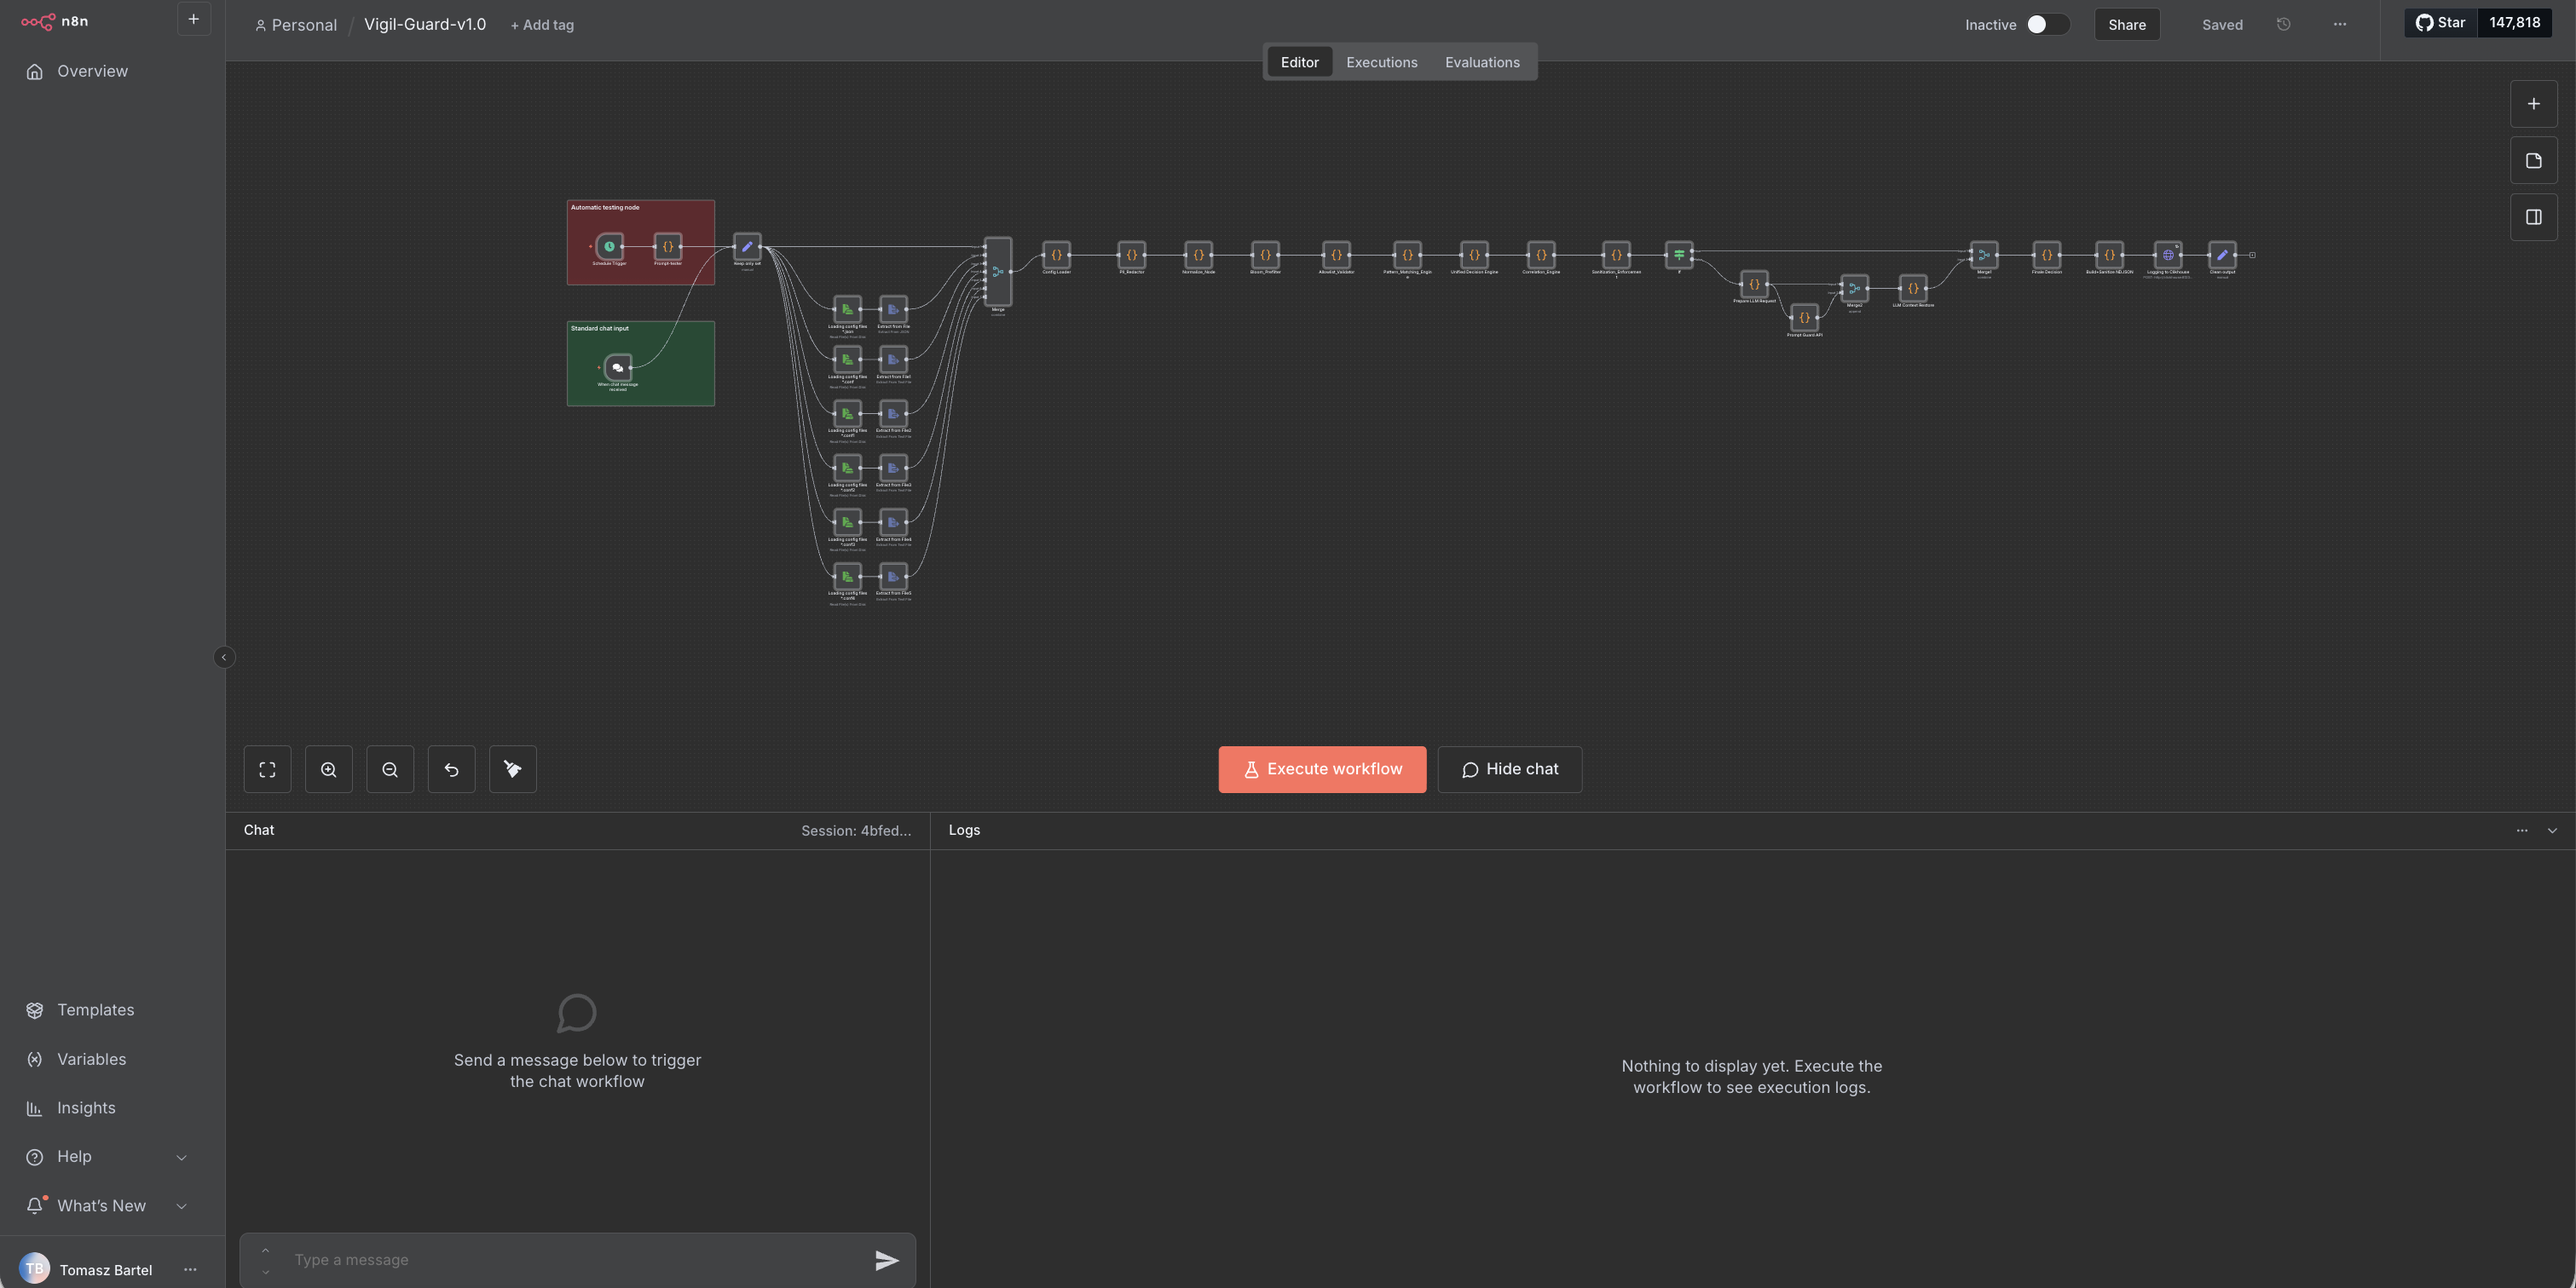
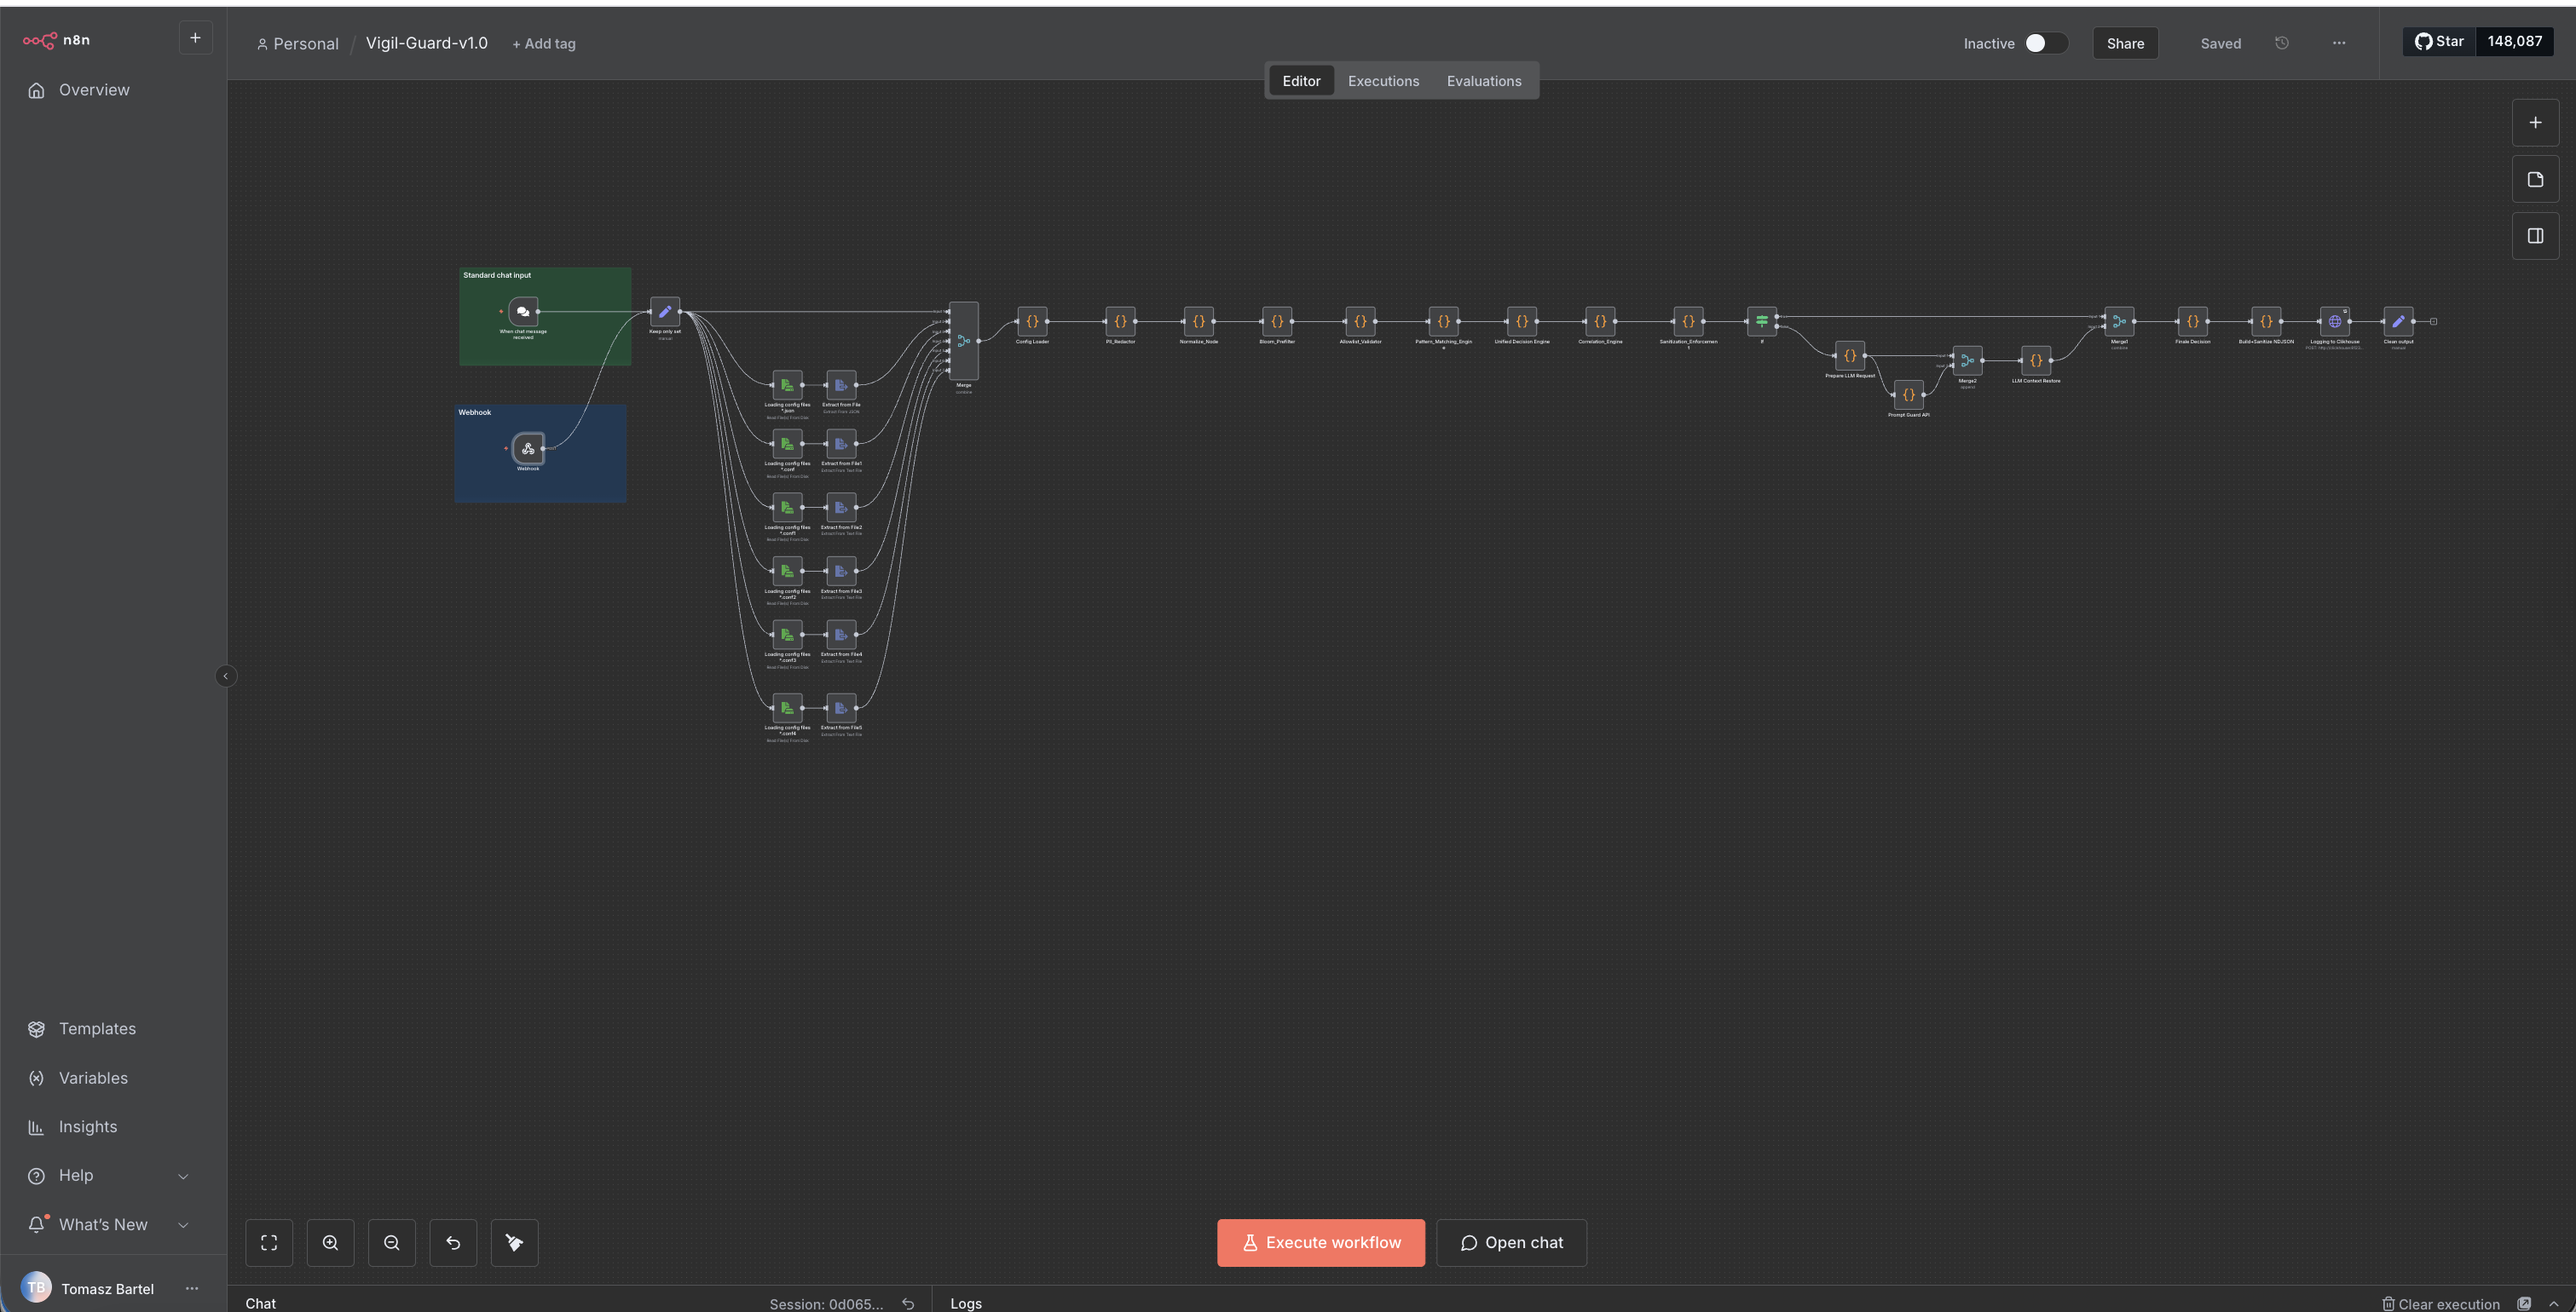
docs: Update documentation for test suite and workflow v1.0
Documentation updates:
- Add comprehensive testing section with 58+ tests
- Update workflow filename to Vigil-Guard-v1.0.json
- Add workflow integration methods (chat window + webhook API)
- Update project structure with test directories
- Refresh workflow pipeline screenshot with current architecture
- Update detection categories count (20+ → 24+)

Testing section highlights:
- 85% test pass rate (23/27 tests passing)
- E2E test suite with vitest and CI/CD integration
- 100 test fixtures (50 malicious + 50 benign prompts)
- Coverage: encoding, obfuscation, SQL injection, jailbreak detection

Workflow access methods:
- Chat window for interactive testing in n8n editor
- Webhook API for production integration
- Detailed examples in test documentation

Files updated:
- README.md: Added testing section, workflow integration guide
- QUICKSTART.md: Updated workflow filename references
- docs/pic/workflow-pipeline.png: Current 34-node pipeline diagram

diff --git a/README.md b/README.md
@@ -16,7 +16,7 @@ Vigil Guard is a comprehensive security platform designed to protect Large Langu
 
 ### Key Features
 
-- 🔍 **Advanced Threat Detection** - Multi-layer detection engine with 20+ pattern categories
+- 🔍 **Advanced Threat Detection** - Multi-layer detection engine with 24+ pattern categories
 - 🛡 **Intelligent Sanitization** - Light and heavy sanitization modes with configurable policies
 - 📊 **Real-time Monitoring** - Grafana dashboards with 6 specialized analytics panels
 - ⚙ **Dynamic Configuration** - Web-based GUI for managing security policies
@@ -24,6 +24,7 @@ Vigil Guard is a comprehensive security platform designed to protect Large Langu
 - 🔄 **n8n Workflow Engine** - Scalable processing pipeline with 34 nodes
 - 📈 **ClickHouse Logging** - High-performance data storage and analytics
 - 🎯 **Risk-based Actions** - ALLOW, SANITIZE (Light/Heavy), BLOCK decisions
+- ✅ **Comprehensive Testing** - E2E test suite with 58+ tests and CI/CD integration
 
 ## 📸 Visual Overview
 
@@ -45,6 +46,11 @@ vigil-guard/
 │   ├── workflow/              # n8n workflow engine
 │   │   ├── config/           # Detection patterns and rules ⚠
 │   │   ├── workflows/        # Workflow JSON files
+│   │   ├── tests/            # E2E test suite (NEW)
+│   │   │   ├── e2e/         # End-to-end tests
+│   │   │   ├── fixtures/    # Test data (100+ samples)
+│   │   │   └── helpers/     # Test utilities
+│   │   ├── vitest.config.js # Test configuration
 │   │   └── docker-compose.yml
 │   ├── web-ui/               # Configuration interface
 │   │   ├── frontend/         # React + Vite + Tailwind CSS
@@ -206,6 +212,23 @@ After installation, access the services at:
 | **ClickHouse HTTP** | http://localhost:8123 | admin/admin123 |
 | **Prompt Guard API** | http://localhost:8000/docs | - |
 
+### Workflow Integration
+
+The n8n workflow can be accessed in two ways:
+
+1. **Chat Window** (Interactive Testing)
+   - Open workflow in n8n editor (http://localhost:5678)
+   - Click "Test workflow" → "Chat" tab
+   - Send prompts directly through the chat interface
+   - View real-time processing results
+
+2. **Webhook API** (Production Use)
+   - Endpoint: `http://localhost:5678/webhook/<webhook-id>`
+   - Method: `POST`
+   - Payload: `{"chatInput": "your prompt text"}`
+   - Returns: Processing results with threat scores and sanitization status
+   - See [services/workflow/tests/README.md](services/workflow/tests/README.md) for examples
+
 ### ⚠ Post-Installation Required Steps
 
 After installation completes, you **must** manually configure n8n:
@@ -216,7 +239,7 @@ After installation completes, you **must** manually configure n8n:
 
 2. **Import Workflow**
    - In n8n, click "Workflows" → "Import from File"
-   - Import: `services/workflow/workflows/Vigil_LLM_guard_v1.json`
+   - Import: `services/workflow/workflows/Vigil-Guard-v1.0.json`
 
 3. **Configure ClickHouse Credentials**
    - Locate "Logging to ClickHouse" node in workflow
@@ -327,6 +350,62 @@ Chat Input → PII Redaction → Normalization → Bloom Prefilter
 - GODMODE_JAILBREAK
 - And more...
 
+## 🧪 Testing
+
+Vigil Guard includes a comprehensive E2E test suite to validate detection accuracy and prevent regressions:
+
+### Test Suite Overview
+
+- **58+ Tests** across 3 suites (smoke, bypass scenarios, false positives)
+- **85% Pass Rate** (23/27 tests passing)
+- **100 Test Fixtures** (50 malicious + 50 benign prompts)
+- **CI/CD Integration** via GitHub Actions
+
+### Running Tests
+
+```bash
+# Navigate to workflow directory
+cd services/workflow
+
+# Install test dependencies (first time only)
+npm install
+
+# Run all tests
+npm test
+
+# Run specific test suite
+npm test -- bypass-scenarios.test.js
+
+# Run with coverage
+npm run test:coverage
+
+# Watch mode for development
+npm run test:watch
+```
+
+### Test Categories
+
+1. **Smoke Tests** (3 tests) - Basic functionality validation
+2. **Bypass Scenarios** (25+ tests) - Advanced attack detection:
+   - Encoding bypass (base64, URL, hex) ✅
+   - Whitespace obfuscation ✅
+   - SQL injection & XSS ✅
+   - Jailbreak attempts ✅
+   - Polyglot attacks ✅
+3. **False Positives** (30+ tests) - Legitimate content validation
+
+### Test Results
+
+Current detection capabilities:
+- ✅ Encoding bypass detection (base64, URL encoding, hex)
+- ✅ Obfuscation detection (zero-width chars, spaced letters)
+- ✅ SQL injection patterns (case-insensitive)
+- ✅ Jailbreak patterns (direct, roleplay, prompt leak)
+- ✅ Polyglot attacks (mixed scripts)
+- ⚠ Advanced attacks (context confusion, multi-step) - Planned for Phase 2
+
+**Documentation**: See [services/workflow/TEST_SUMMARY.md](services/workflow/TEST_SUMMARY.md) for detailed test results and troubleshooting.
+
 ## 📖 Documentation
 
 Comprehensive documentation is available in the `docs/` directory:
@@ -334,6 +413,7 @@ Comprehensive documentation is available in the `docs/` directory:
 - [Installation Guide](docs/INSTALLATION.md) - Detailed setup instructions
 - [Configuration Reference](docs/CONFIGURATION.md) - All configuration options
 - [API Documentation](docs/API.md) - API endpoints and usage
+- [Test Suite Guide](services/workflow/tests/README.md) - Testing and validation
 - [Technical Architecture](docs/technical/architecture.md) - System design details
 
 ## 🔧 Configuration

diff --git a/QUICKSTART.md b/QUICKSTART.md
@@ -66,7 +66,7 @@ After installation completes, you **must** perform these manual steps:
 2. Click **"Add Workflow"** → **"Import from File"**
 3. Import the workflow file from:
    ```
-   services/workflow/workflows/Vigil_LLM_guard_v1.json
+   services/workflow/workflows/Vigil-Guard-v1.0.json
    ```
 4. The workflow will load with all 34 nodes
 
@@ -172,7 +172,7 @@ lsof -i :3001  # Grafana
 
 1. **✅ Complete n8n Setup** (REQUIRED - see Step 4 above)
    - Create n8n account
-   - Import workflow from `services/workflow/workflows/Vigil_LLM_guard_v1.json`
+   - Import workflow from `services/workflow/workflows/Vigil-Guard-v1.0.json`
    - Configure ClickHouse credentials (admin/admin123)
 
 2. **Configure Security Rules**
